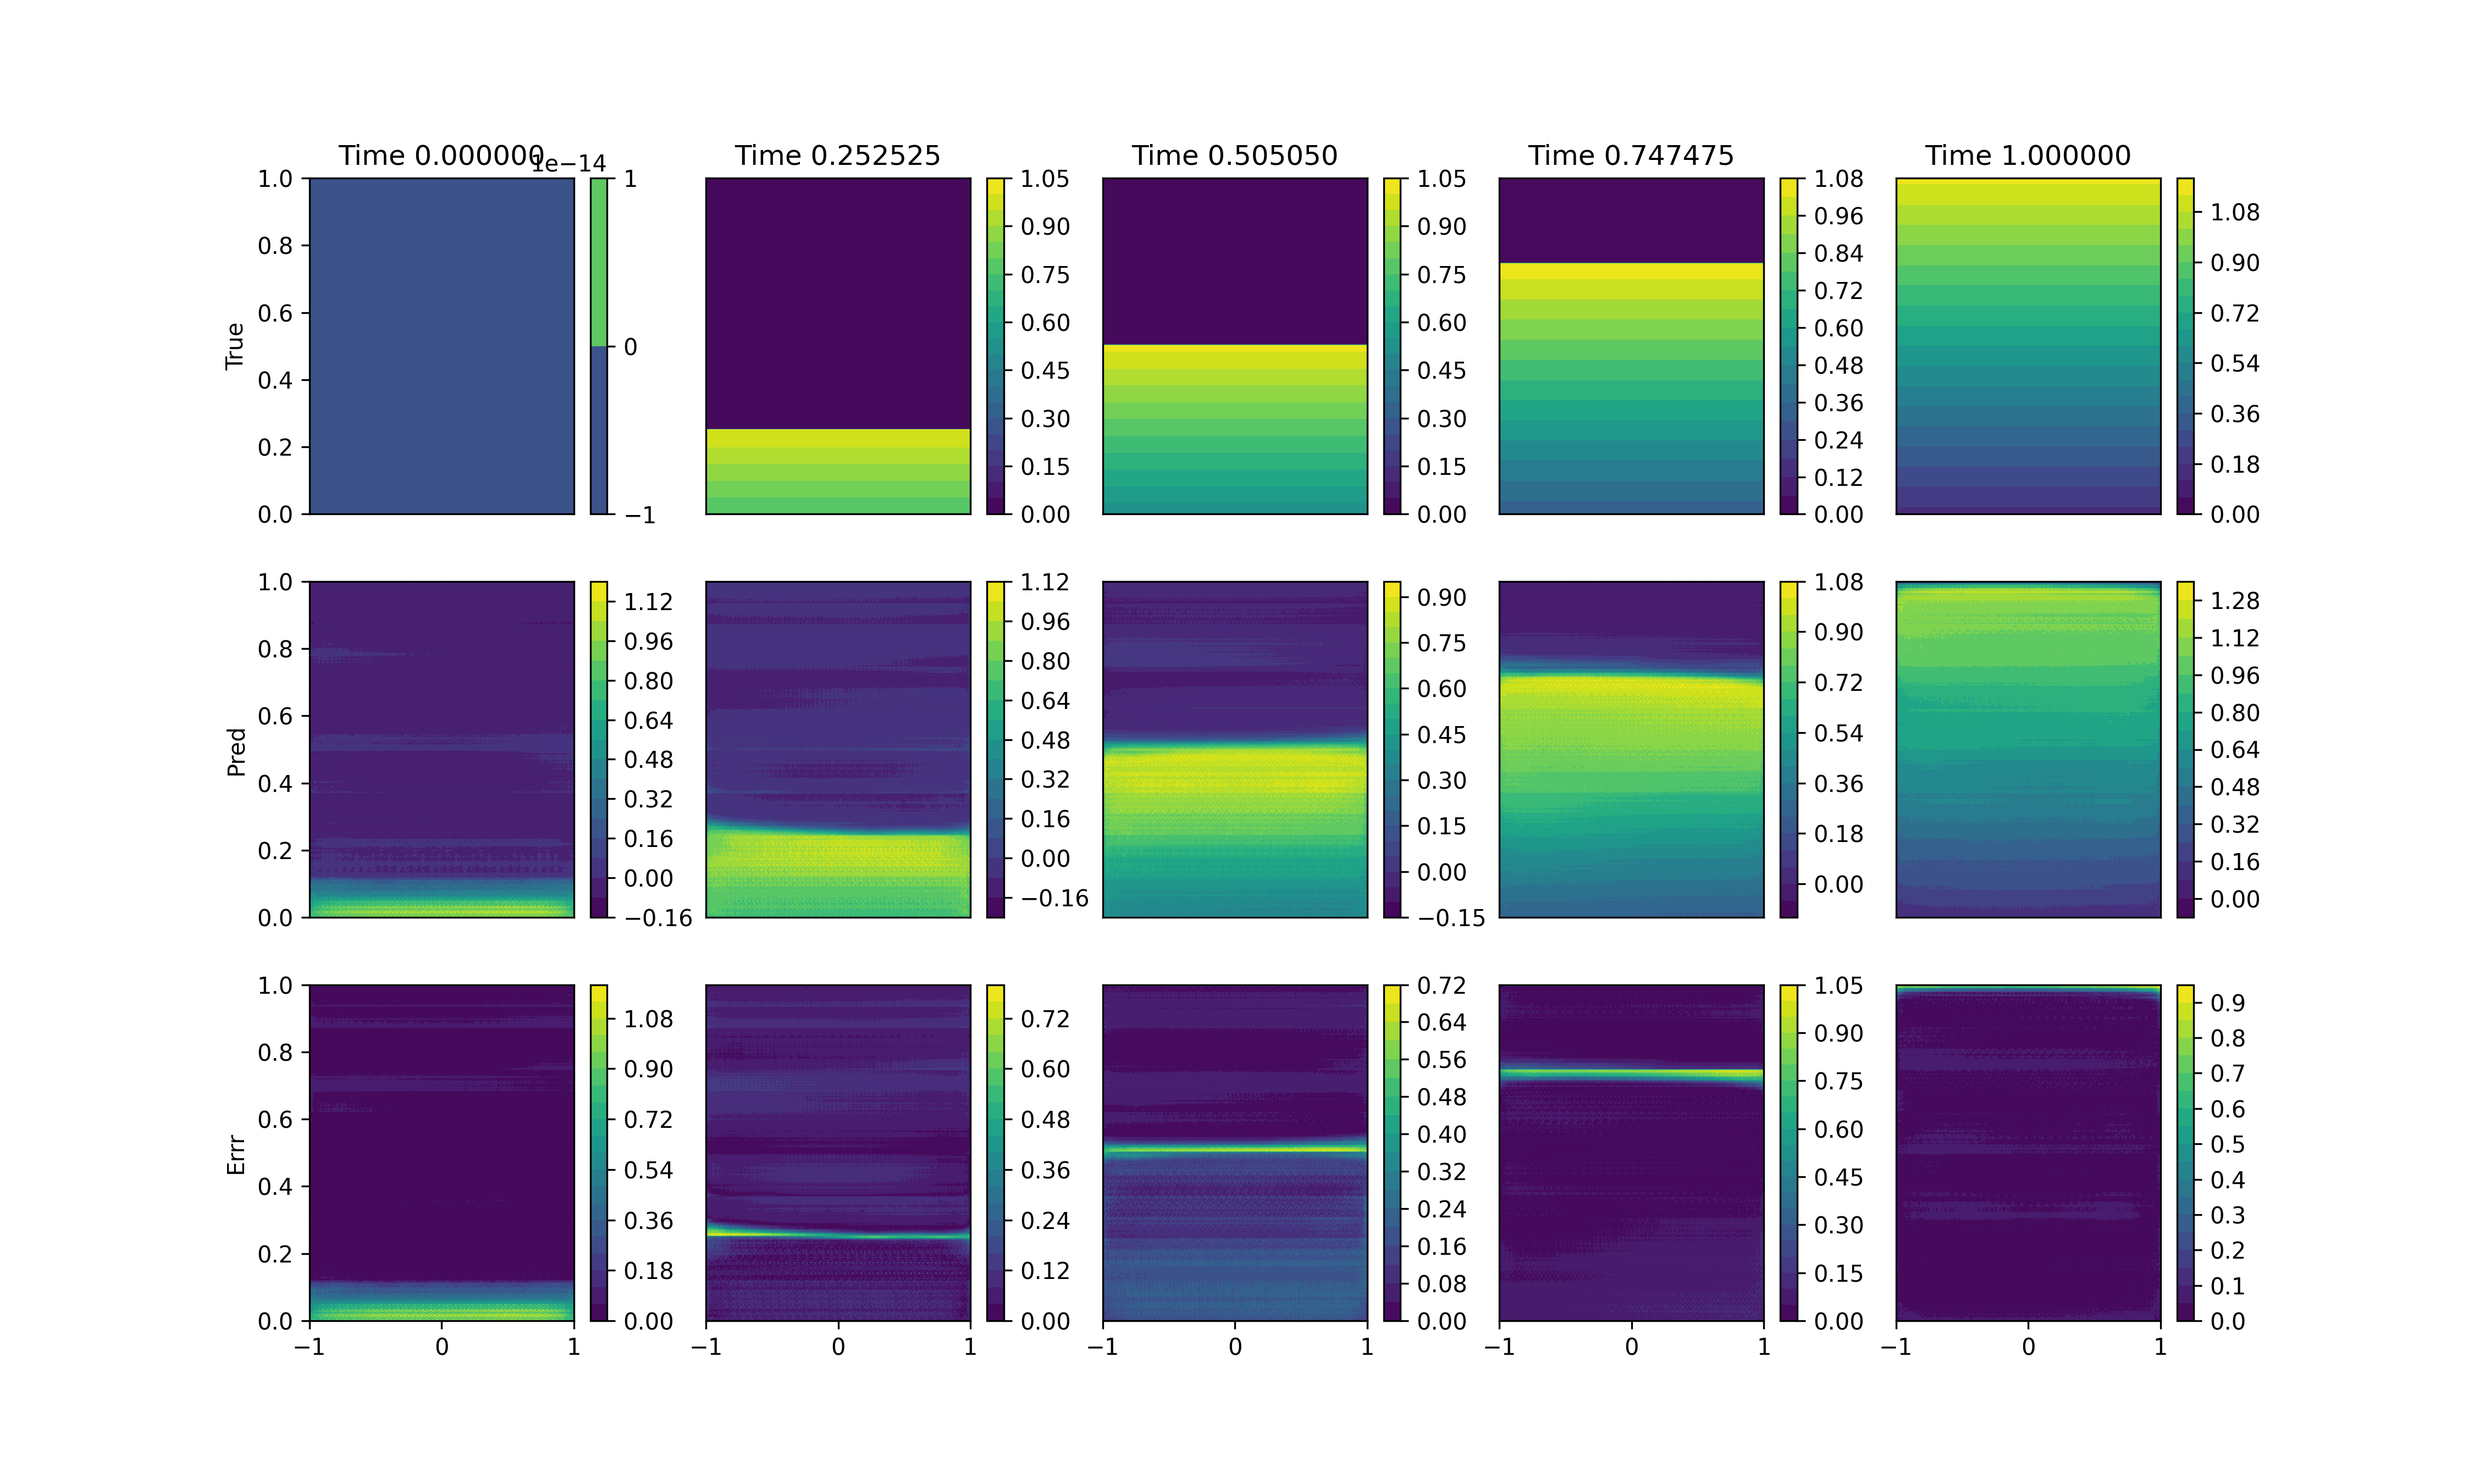
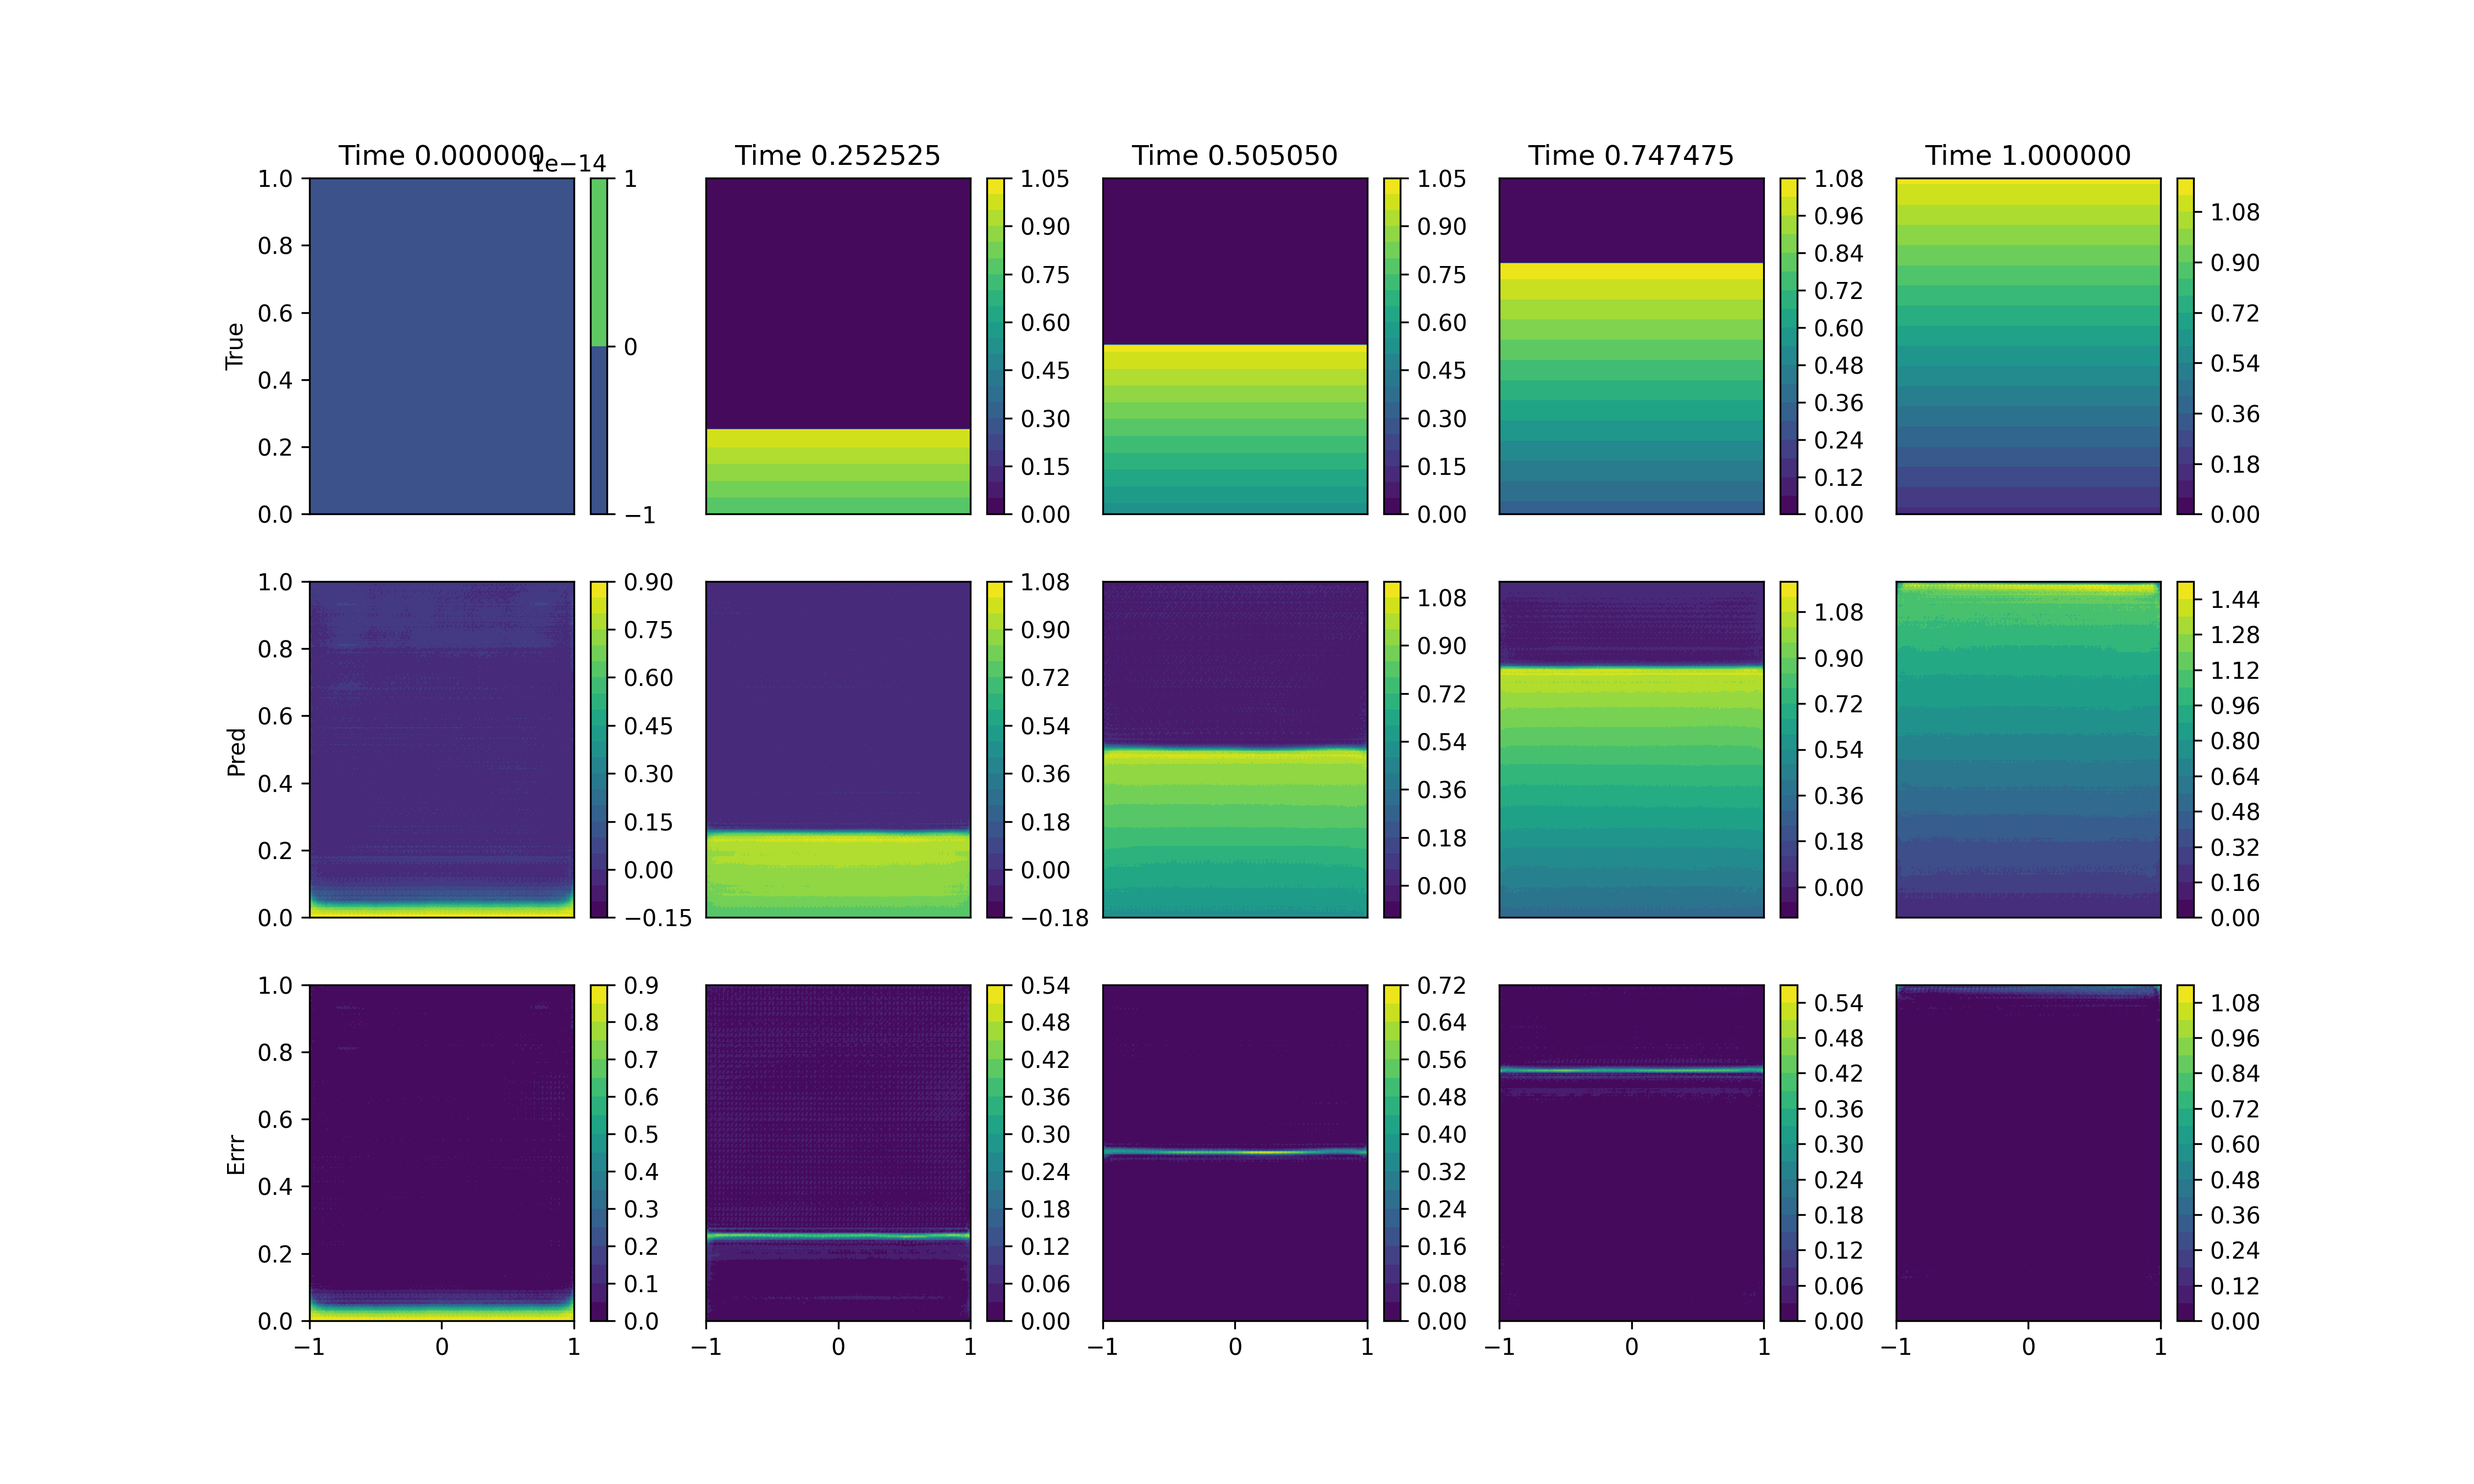
fixed mask issue

diff --git a/sandbox/__main__.py b/sandbox/__main__.py
@@ -55,6 +55,41 @@ def comparison_plot(shape, pred, true, nt_plt=5):
 
     return fig
 
+class UNetCNN(nn.Module):
+    def __init__(self, shape, w=128, act=nn.ReLU()):
+        super().__init__()
+
+        M = shape.final_mask().unsqueeze(0).unsqueeze(0)
+        self.register_buffer('M', M)
+
+        self.encoder = nn.Sequential(                 # [N, 3, 256, 256]
+            mlutils.C2d_block(3, w, None, "2x", act), # [128]
+            mlutils.C2d_block(w, w, None, "2x", act), # [64]
+            mlutils.C2d_block(w, w, None, "2x", act), # [32]
+            mlutils.C2d_block(w, w, None, "2x", act), # [16]
+        )
+
+        self.bottleneck = nn.Sequential( # [N, w, 16, 16]
+            nn.Conv2d(w, w, kernel_size=3, padding=1), act, # [16]
+            nn.Conv2d(w, w, kernel_size=3, padding=1), act, # [16]
+        )
+
+        self.decoder = nn.Sequential( # [N, w, 16, 16]
+            mlutils.CT2d_block(w, w, None, "2x", act), # 32
+            mlutils.CT2d_block(w, w, None, "2x", act), # 64
+            mlutils.CT2d_block(w, w, None, "2x", act), # 128
+            mlutils.CT2d_block(w, 1, None, "2x", act), # 256
+        )
+
+        return
+
+    def forward(self, x):
+        x = self.encoder(x)
+        x = self.bottleneck(x)
+        x = self.decoder(x)
+        return x * self.M
+#
+
 class CNN(nn.Module):
     def __init__(self, shape, w=128, act=nn.ReLU()):
         super().__init__()
@@ -195,7 +230,7 @@ def train_scalar_cnn(device, outdir, resdir, name):
     for lr in [1e-3, 5e-4, 1e-4, 5e-5, 1e-5]:
         kw = {
             "device" : device,
-            "lr" : 1e-4,
+            "lr" : lr,
             "_batch_size" : 1,
             "nepochs" : 20,
         }
@@ -357,7 +392,7 @@ if __name__ == "__main__":
     # train_mlp(device, outdir, resdir, "alldomain")
     # train_mlp(device, outdir, resdir, "hourglass")
 
-    # train_cnn(device, outdir, resdir, "alldomain")
+    train_cnn(device, outdir, resdir, "alldomain")
     train_cnn(device, outdir, resdir, "hourglass")
 
     # train_scalar_cnn(device, outdir, resdir, "alldomain")

diff --git a/sandbox/dataset.py b/sandbox/dataset.py
@@ -72,6 +72,14 @@ def makedata(
         point = torch.stack(point, dim=1) # [N, C, H, W]
         value = torch.stack(value, dim=1)
         value = value * M3D.unsqueeze(1)
+    elif datatype == "image-nextstep":
+        # batches over time-dimension
+        point = torch.stack(point, dim=1)
+        value = torch.stack(value, dim=1) # [N, C, H, W]
+        value = value * M3D.unsqueeze(1)
+
+        point = point[0:-1] 
+        value = value[1:] - value[0:-1]
     elif datatype == "mesh":
         # get inside points only and create adjacency matrix
         raise NotImplementedError()
